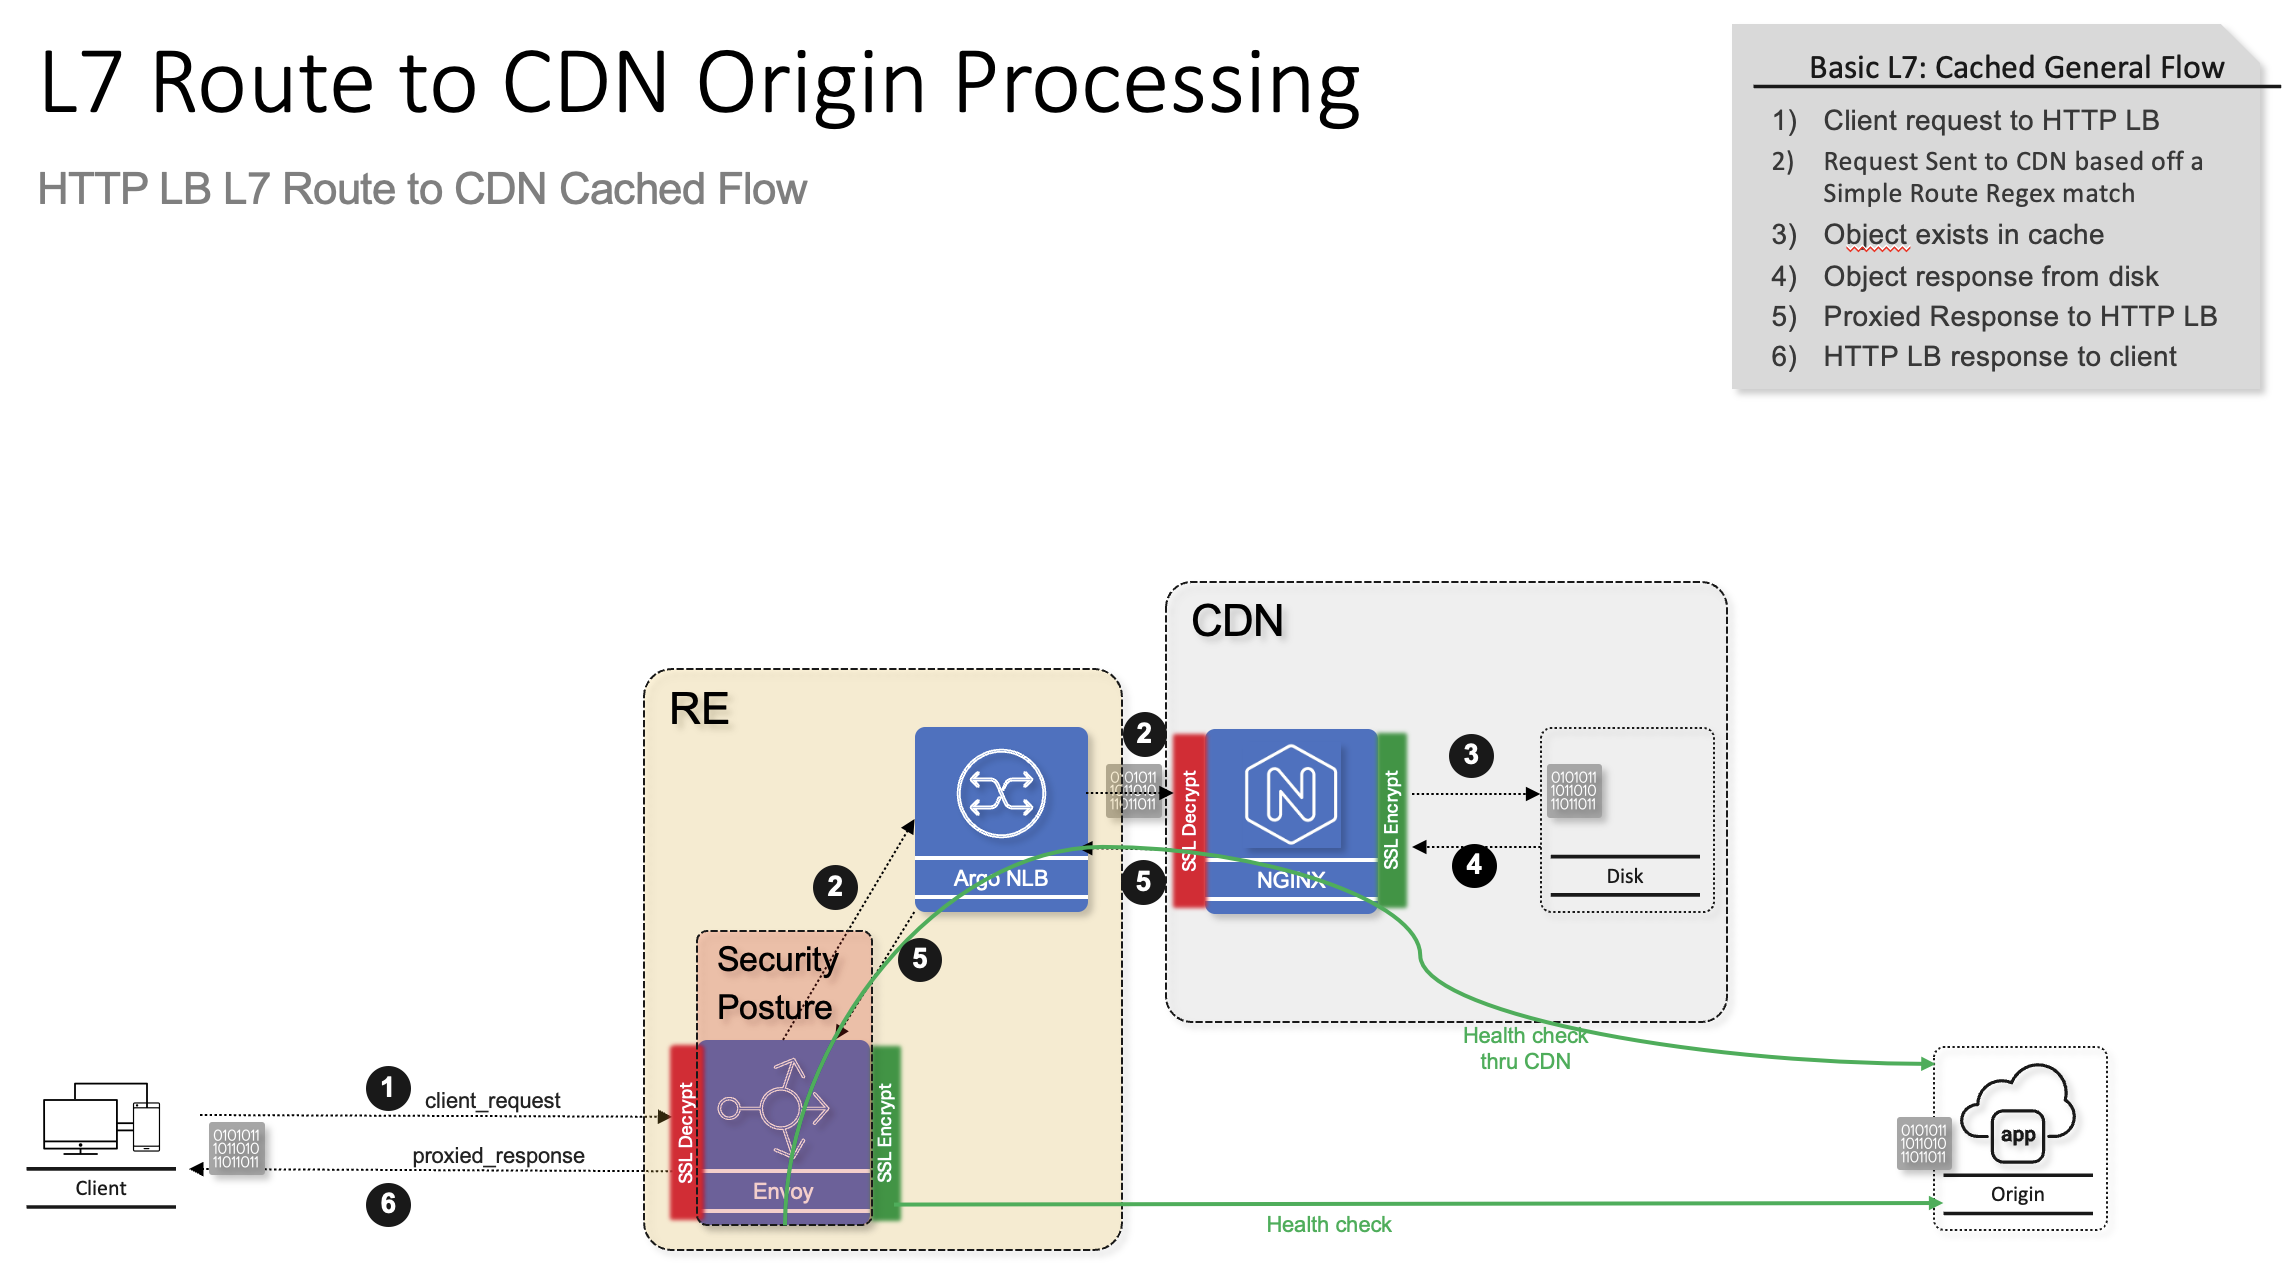
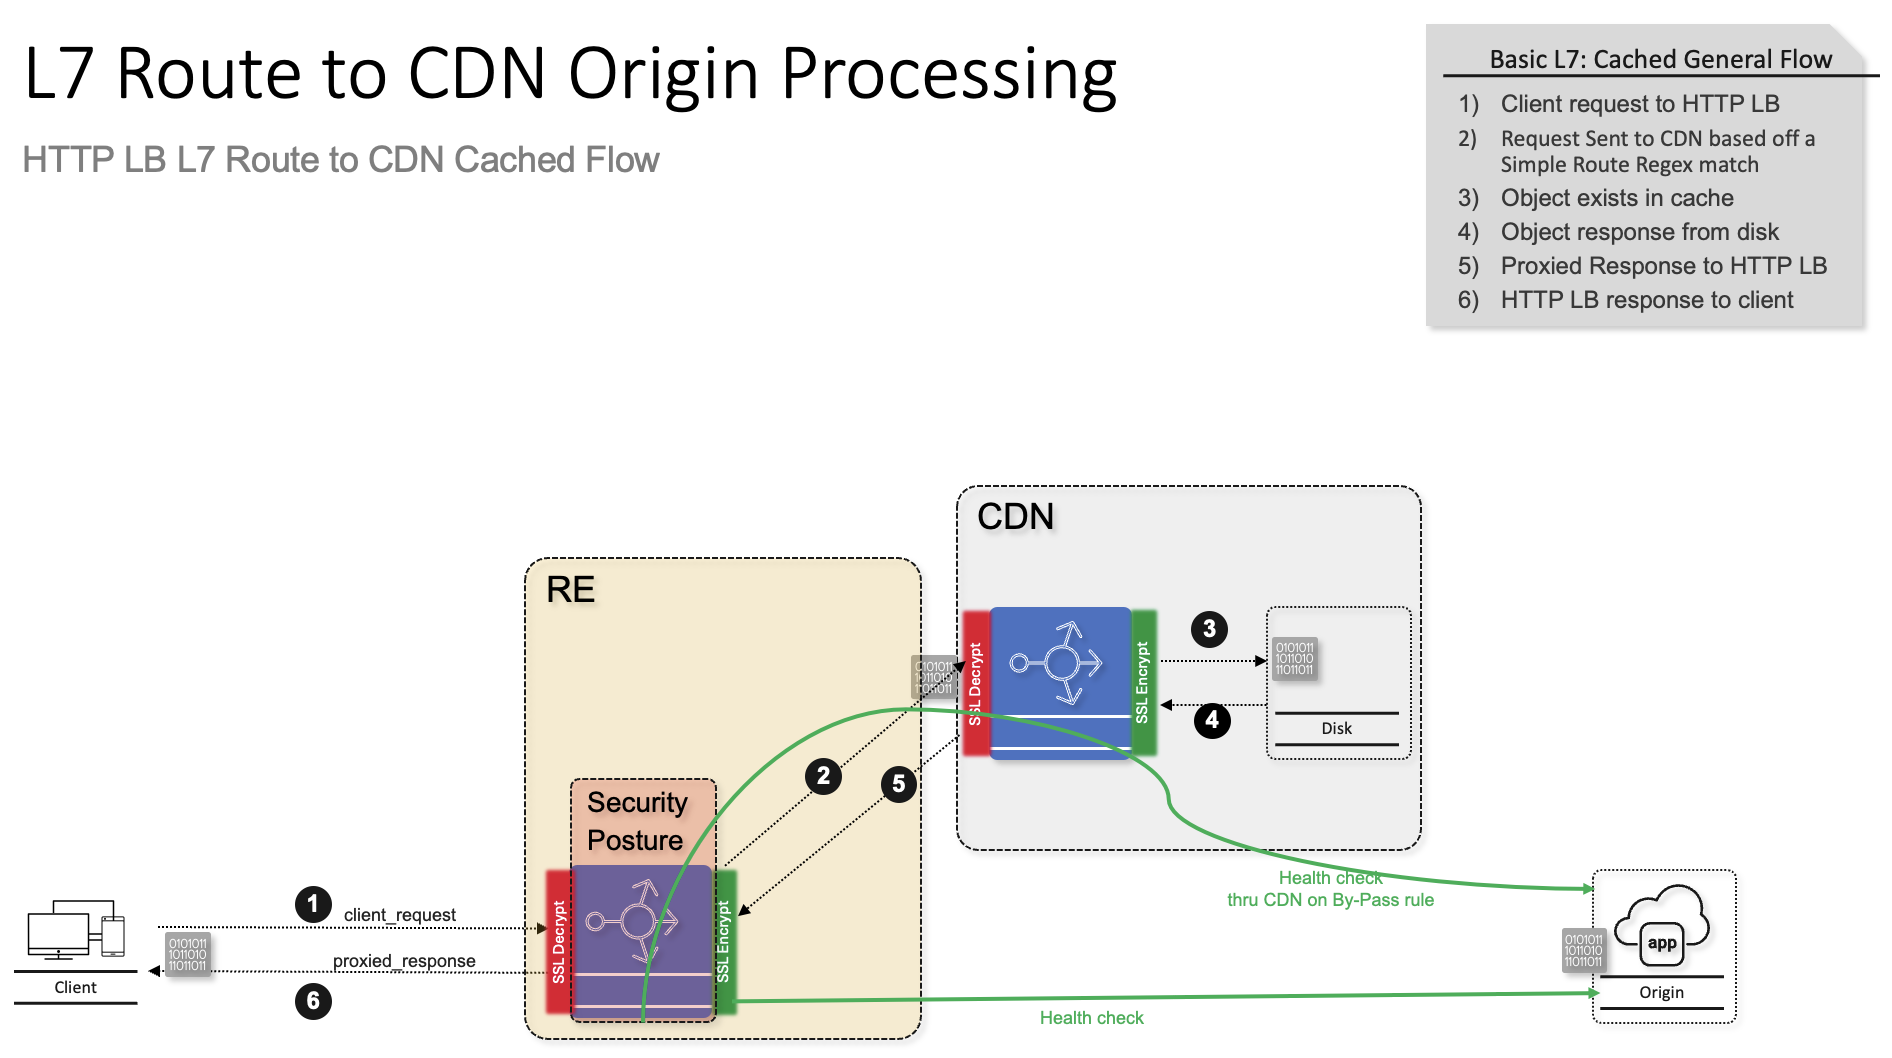
updated arch drawing

diff --git a/docs/guides/guide-cdn-layer7-route-to-cdn.rst b/docs/guides/guide-cdn-layer7-route-to-cdn.rst
@@ -26,7 +26,7 @@ This approach gives you both flexibility and control over application-level rout
 Highlevel Topology:
 -------------------
 
-.. figure:: ./images/cdn-http-lb-layer7-2.png
+.. figure:: ./images/cdn-http-lb-layer7.png
    :align: center
 
 
